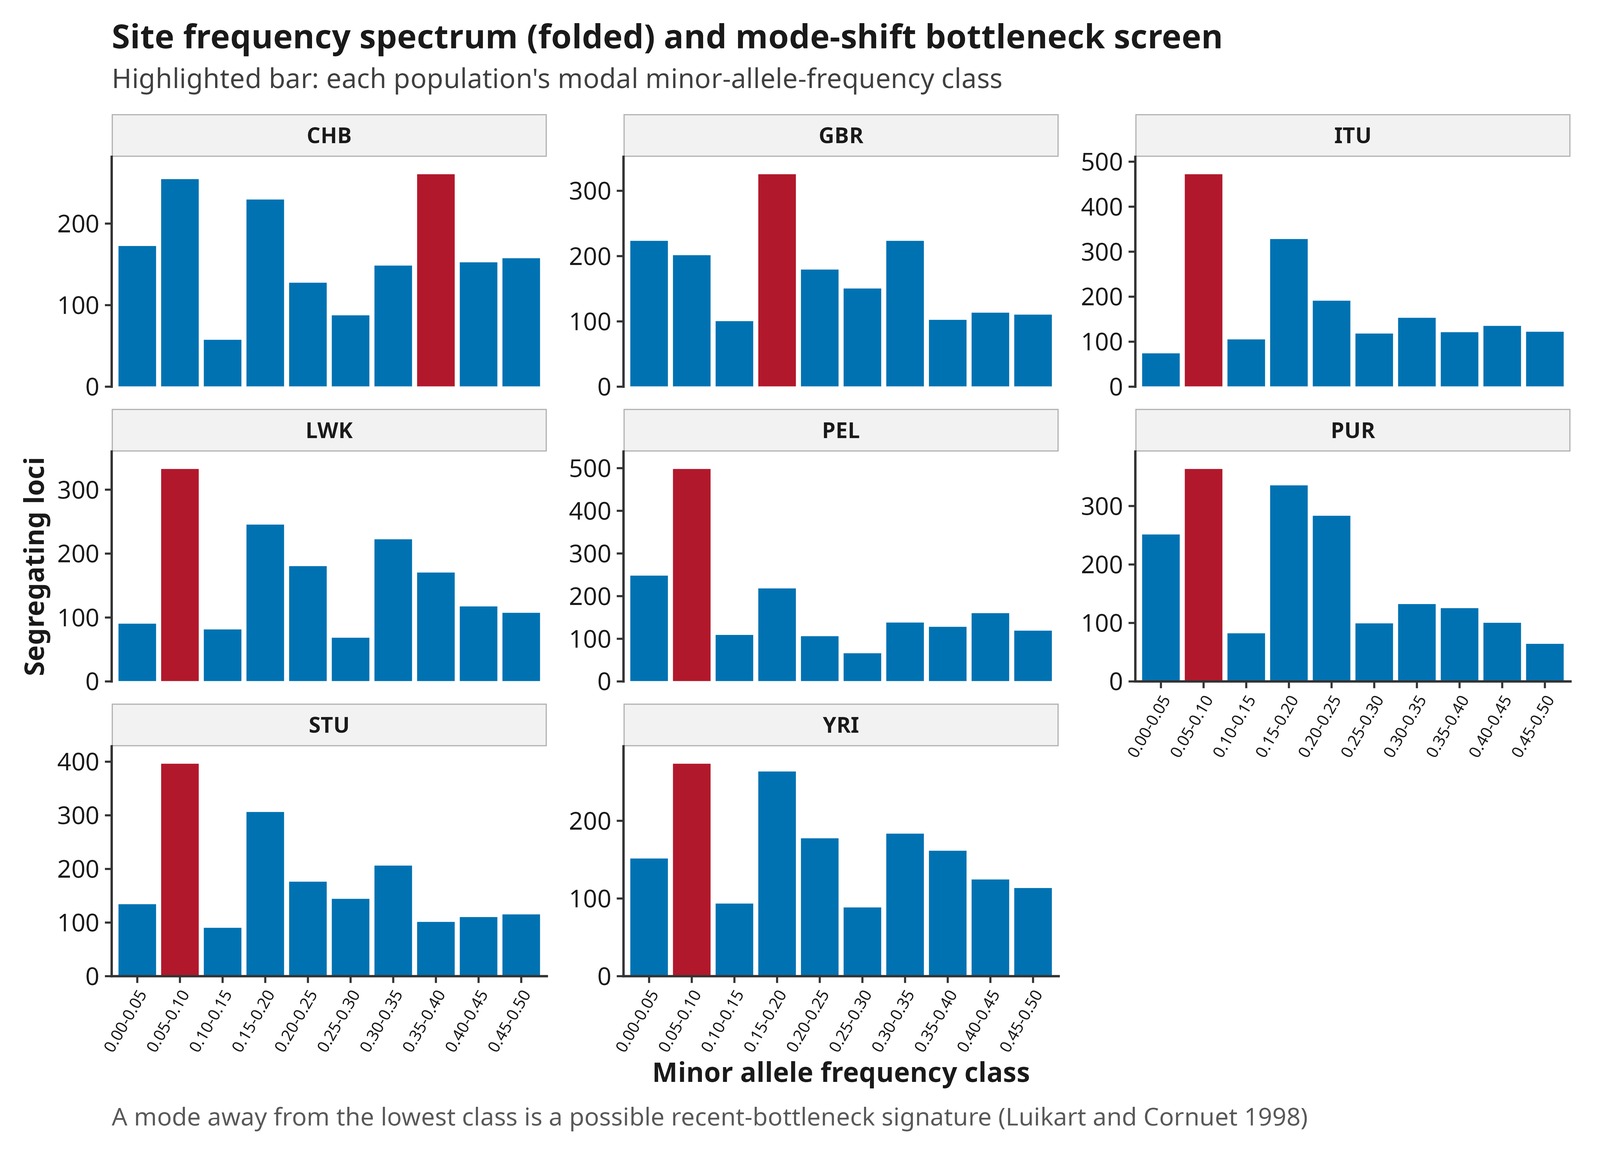
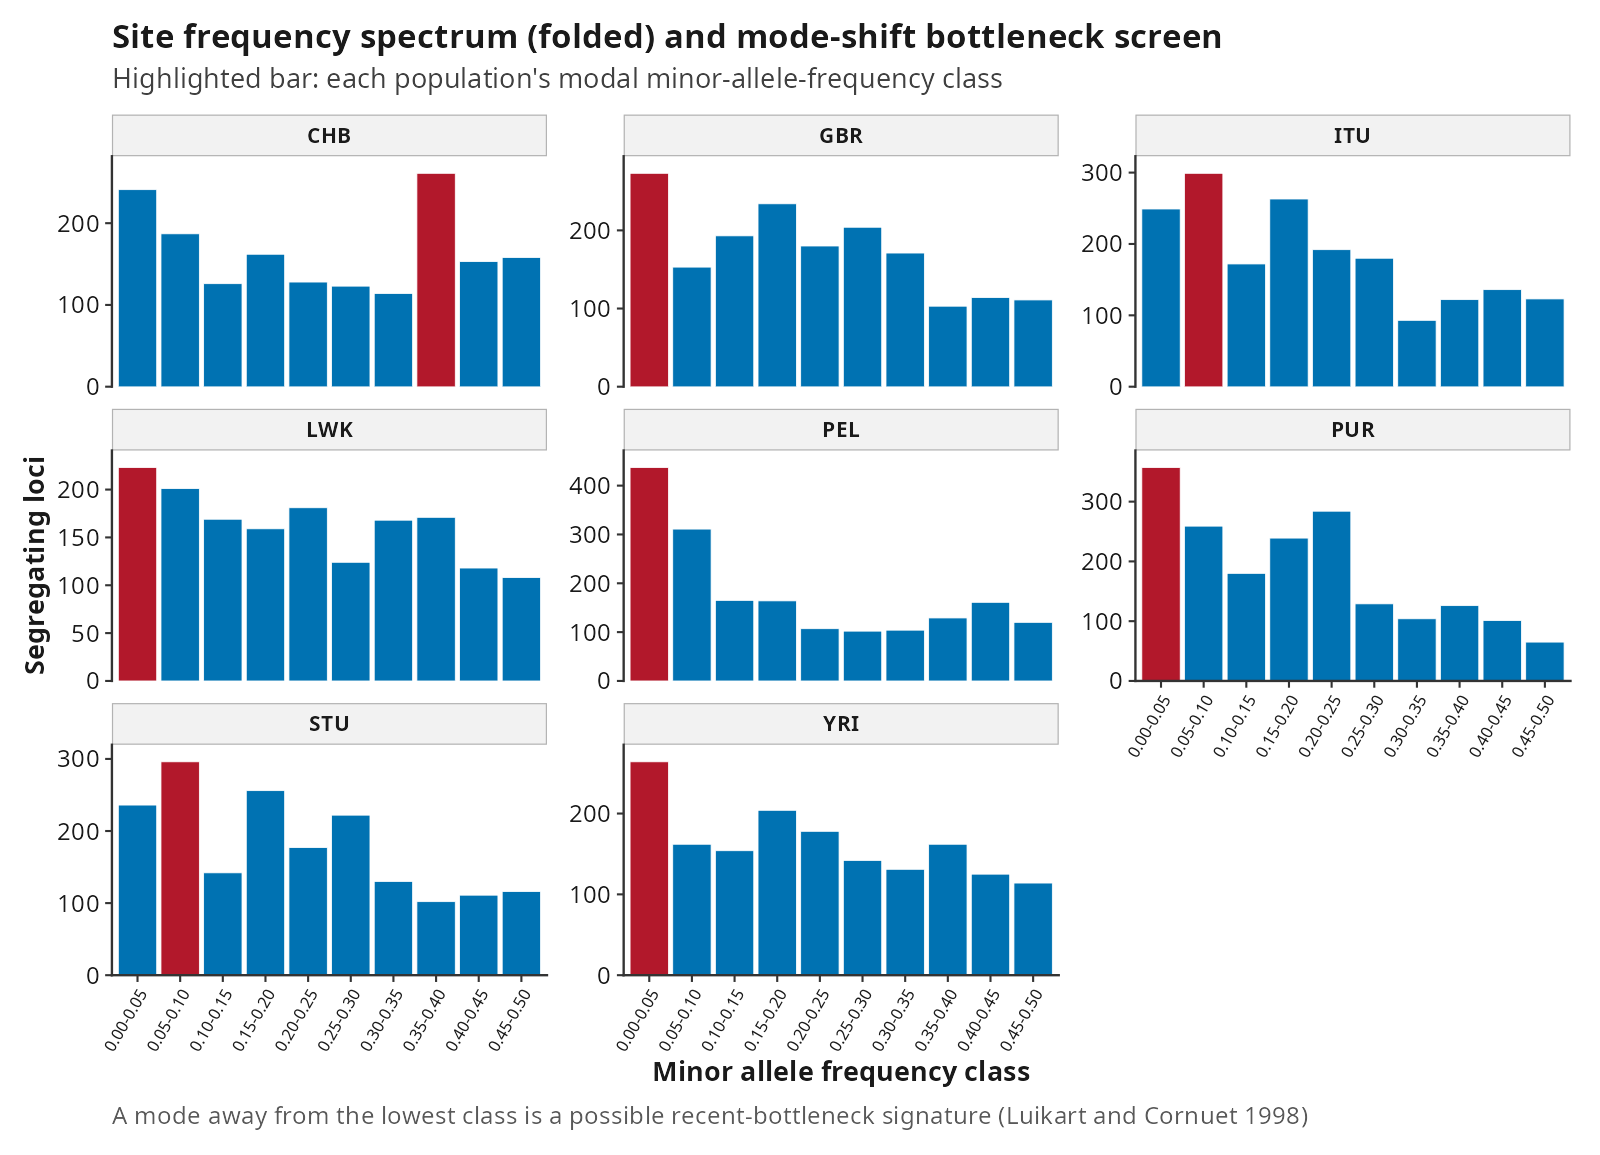
Update quickstart documentation made stale by the SFS boundary-binning fix
Under the default MAF filter 3 of 8 populations are mode-shifted (not all
8) and none under qc.maf = 0; the windowed FST minimum is 0.019, not
0.051. Figure 48, wiki and vignette updated; all other quoted quickstart
numbers re-checked against a fresh full run.

Claude-Session: https://claude.ai/code/session_01D4onVdW5nemQZbdv3J94nG

diff --git a/wiki/Results-and-Interpretation.md b/wiki/Results-and-Interpretation.md
@@ -475,18 +475,20 @@ it is a clean fit for biallelic SNP data.
 ![Site frequency spectrum and mode-shift bottleneck screen from the quickstart example](figures/48_site_frequency_spectrum.png)
 
 **Read this result with the same caution as any MAF-filtered analysis.**
-With this package's default `qc.maf = 0.05` filter, all 8 quickstart
-populations show `mode_shifted = TRUE`. Before reporting this, it was
-checked against an unfiltered re-analysis (`qc.maf = 0` on the same data):
-only 3 of 8 populations (ITU, STU, YRI) are genuinely mode-shifted: the
-other 5 (CHB, GBR, LWK, PEL, PUR) correctly show the expected unshifted,
-lowest-class mode once the MAF filter is removed. The default filter
-systematically removes population-rare variants before this test ever
-sees the data, and that alone can produce a spurious mode-shift signal --
-the same general caveat already documented for Tajima's D's own
-MAF-filtering bias. This is not evidence that all 8 quickstart populations
-experienced a recent bottleneck; a real investigation would rerun with a
-low or zero `qc.maf`.
+With this package's default `qc.maf = 0.05` filter, 3 of the 8 quickstart
+populations (CHB, ITU, STU) show `mode_shifted = TRUE`. Before reporting
+this, it was checked against an unfiltered re-analysis (`qc.maf = 0` on the
+same data): none of the 8 is mode-shifted once the filter is removed --
+every population shows the expected lowest-class mode. The default filter
+removes population-rare variants before this test ever sees the data, and
+that alone can produce a spurious mode-shift signal -- the same general
+caveat already documented for Tajima's D's own MAF-filtering bias. This is
+not evidence that those 3 populations experienced a recent bottleneck; a
+real investigation would rerun with a low or zero `qc.maf`. (Releases
+before 1.0.15 reported all 8 as shifted under the default filter and 3
+under `qc.maf = 0`: a floating-point binning error placed every MAF sitting
+exactly on a class boundary -- half of all possible values at n = 20 --
+one class too high.)
 
 ## FST
 
@@ -684,7 +686,7 @@ noisy.
 
 ![Sliding-window FST scan across the quickstart example's analyzed chr22 region, 50kb non-overlapping windows](figures/25_genome_scan_FST_manhattan.png)
 
-The 20 windows range from FST 0.051 to 0.172. The single highest, 20.80-20.85 Mb (FST=0.172, 104 SNPs), is a candidate worth further investigation under the caveats above, not a confirmed selection signal -- especially since it is only moderately above the region's known global FST of 0.0915.
+Of the 20 windows, 19 hold enough SNPs to estimate (one holds none) and range from FST 0.019 to 0.172. The single highest, 20.80-20.85 Mb (FST=0.172, 104 SNPs), is a candidate worth further investigation under the caveats above, not a confirmed selection signal -- especially since it is only moderately above the region's known global FST of 0.0915.
 
 ![Sliding-window diversity scan across the quickstart example's analyzed chr22 region, coloured by population](figures/26_genome_scan_diversity_manhattan.png)
 

diff --git a/NEWS.md b/NEWS.md
@@ -1,5 +1,10 @@
 # popgenVCF 1.0.15.9000 development
 
+- **Fourth code pass, increment 1 (a full default quickstart run audited against the documentation):**
+
+  - **Documentation made stale by the 1.0.15 SFS binning fix.** The wiki and vignette still said all 8 quickstart populations are mode-shifted under the default MAF filter and 3 (ITU, STU, YRI) under `qc.maf = 0`. With boundary MAFs binned correctly it is 3 of 8 (CHB, ITU, STU) under the default filter and none under `qc.maf = 0`; at n = 20 half of all possible MAF values sit exactly on a class boundary, so the old error moved most of the lowest class up by one. The text and the `48_site_frequency_spectrum` figure are updated; the MAF-filter caveat they illustrate stands.
+  - The genome-scan text gave the windowed FST range as 0.051-0.172; the lowest estimated window is 0.019 (0.051 is the fourth lowest), and only 19 of the 20 windows hold any SNPs. Every other quoted quickstart number (global FST/Nm/Jost's D/Dxy/beta, Mantel and partial Mantel, pcadapt, population assignment, sex check, kinship, ROH, Tajima's D, windowed heterozygosity) was re-checked against this run and matches.
+
 - **Third code pass, increment 7 (report rendering), found by running the whole pipeline end to end without metadata while the test suite was also running:**
 
   - **`report.R` -- simultaneous popgenVCF runs on one machine broke each other's PDF report.** The report was rendered in place, and LaTeX writes its `.aux`/`.toc`/`.log` beside the input document regardless of `intermediates_dir`/`output_dir` -- i.e. into the installed package's own template directory, one fixed path shared by every process. Two runs compiling at the same moment read each other's half-written `.aux` and failed with "Missing \\begin{document}" or "Extra }, or forgotten \\endgroup" (confirmed directly: four concurrent renders, four failures), after all analyses had completed. It also made the PDF report impossible wherever the package library is read-only. Each render now works from a private temporary copy of the template. This is the realistic multi-job HPC case, and also the source of the stray `population_genomics_report.aux`/`.toc` files that kept appearing in the source tree during development.
